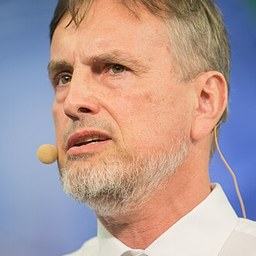
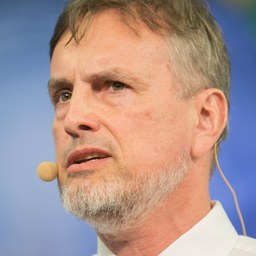
content: 本周更新——Schmidhuber(LSTM 之父)× Redpoint + Neel Nanda(DeepMind 可解释性)× DeepMind 官方
- 2 新人物(头像均确证:维基/GitHub 自证)+ 2 期双语全文 + brief
- 跳过 Adam Mosseri(非 AI 人物)与 20VC 新闻局

diff --git a/e/neelnanda-googlede-2026/index.html b/e/neelnanda-googlede-2026/index.html
@@ -1,0 +1,32 @@
+<!doctype html><html lang="zh"><head><meta charset="utf-8">
+<meta name="viewport" content="width=device-width,initial-scale=1">
+<title>窥探 AI 的黑箱内部 · 尼尔·南达 — AI Podcast</title>
+<meta name="description" content="Hannah Fry 与 Neil Nander 探讨可解释性领域，该领域旨在通过将意义映射到神经网络内部数字来理解其工作原理，并探讨其安全与科学动机。">
+<link rel="canonical" href="https://aipodcast.jasonlin.tech/e/neelnanda-googlede-2026/">
+<meta property="og:type" content="article">
+<meta property="og:site_name" content="AI Podcast · AI 播客">
+<meta property="og:title" content="窥探 AI 的黑箱内部 · 尼尔·南达 — AI Podcast">
+<meta property="og:description" content="Hannah Fry 与 Neil Nander 探讨可解释性领域，该领域旨在通过将意义映射到神经网络内部数字来理解其工作原理，并探讨其安全与科学动机。">
+<meta property="og:image" content="https://aipodcast.jasonlin.tech/assets/og.png">
+<meta property="og:url" content="https://aipodcast.jasonlin.tech/e/neelnanda-googlede-2026/">
+<meta name="twitter:card" content="summary_large_image">
+<meta name="twitter:title" content="窥探 AI 的黑箱内部 · 尼尔·南达 — AI Podcast">
+<meta name="twitter:description" content="Hannah Fry 与 Neil Nander 探讨可解释性领域，该领域旨在通过将意义映射到神经网络内部数字来理解其工作原理，并探讨其安全与科学动机。">
+<meta name="twitter:image" content="https://aipodcast.jasonlin.tech/assets/og.png">
+<script type="application/ld+json">{"@context":"https://schema.org","@type":"PodcastEpisode","name":"Peering Inside the Black Box of AI","alternateName":"窥探 AI 的黑箱内部","url":"https://aipodcast.jasonlin.tech/e/neelnanda-googlede-2026/","datePublished":"2026-07-10","timeRequired":"PT53M","inLanguage":["en","zh"],"description":"Hannah Fry and Neil Nander discuss interpretability, the field that aims to understand how neural networks work by mapping meaning onto their internal numbers, and explore its safety and scientific motivations.","abstract":"","partOfSeries":{"@type":"PodcastSeries","name":"Google DeepMind"},"isPartOf":{"@type":"WebSite","name":"AI Podcast","url":"https://aipodcast.jasonlin.tech"},"actor":{"@type":"Person","name":"Neel Nanda","jobTitle":"Mechanistic Interpretability Lead, Google DeepMind","url":"https://aipodcast.jasonlin.tech/pp/neelnanda/"},"associatedMedia":{"@type":"VideoObject","name":"Peering Inside the Black Box of AI","embedUrl":"https://www.youtube.com/embed/1DtMiRKg-cs","uploadDate":"2026-07-10"}}</script>
+<script type="application/ld+json">{"@context":"https://schema.org","@type":"BreadcrumbList","itemListElement":[{"@type":"ListItem","position":1,"name":"AI Podcast","item":"https://aipodcast.jasonlin.tech/"},{"@type":"ListItem","position":2,"name":"尼尔·南达","item":"https://aipodcast.jasonlin.tech/pp/neelnanda/"},{"@type":"ListItem","position":3,"name":"窥探 AI 的黑箱内部","item":"https://aipodcast.jasonlin.tech/e/neelnanda-googlede-2026/"}]}</script>
+<style>:root{--ink:#1d1d1f;--sub:#6e6e73;--line:#e6e6ea;--acc:#0071e3}*{box-sizing:border-box}body{font-family:-apple-system,"SF Pro Text",system-ui,"PingFang SC",sans-serif;color:var(--ink);background:#fff;margin:0;line-height:1.62}.wrap{max-width:760px;margin:0 auto;padding:34px 22px 80px}nav.bc{font-size:13px;color:var(--sub);margin-bottom:20px}nav.bc a{color:var(--sub);text-decoration:none}h1{font-size:27px;line-height:1.25;margin:.2em 0 .1em;letter-spacing:-.02em}.en-t{font-size:16px;color:var(--sub);margin:0 0 10px}.meta{font-size:14px;color:var(--sub);margin:8px 0 22px}.meta a{color:var(--acc);text-decoration:none}.cta{display:inline-block;margin:6px 0 26px;padding:10px 18px;background:var(--acc);color:#fff;border-radius:980px;font-size:14px;font-weight:600;text-decoration:none}h2{font-size:16px;margin:30px 0 10px;padding-top:8px;border-top:1px solid var(--line)}.zh{margin:.35em 0}.en{margin:.15em 0 1em;color:var(--sub);font-size:14.5px}ul{padding-left:1.1em}li{margin:.5em 0}.ep-list a{color:var(--ink)}footer{margin-top:44px;padding-top:16px;border-top:1px solid var(--line);font-size:12px;color:var(--sub)}footer a{color:var(--sub)}</style></head><body><div class="wrap"><nav class="bc"><a href="https://aipodcast.jasonlin.tech/">AI Podcast</a> › <a href="https://aipodcast.jasonlin.tech/pp/neelnanda/">尼尔·南达</a> › 本期</nav>
+<h1>窥探 AI 的黑箱内部</h1><p class="en-t">Peering Inside the Black Box of AI</p>
+<p class="meta"><a href="https://aipodcast.jasonlin.tech/pp/neelnanda/">尼尔·南达 Neel Nanda</a> · Google DeepMind · 2026-07-10 · 约 53 分钟 · <a href="https://youtu.be/1DtMiRKg-cs" rel="nofollow">原视频 ↗</a></p>
+<a class="cta" href="https://aipodcast.jasonlin.tech/#/episode/neelnanda-googlede-2026">打开互动全文版（中英对照 + 朗读 + 问答）→</a>
+<h2>本期速览 · Overview</h2><p class="zh">Hannah Fry 与 Neil Nander 探讨可解释性领域，该领域旨在通过将意义映射到神经网络内部数字来理解其工作原理，并探讨其安全与科学动机。</p><p class="en">Hannah Fry and Neil Nander discuss interpretability, the field that aims to understand how neural networks work by mapping meaning onto their internal numbers, and explore its safety and scientific motivations.</p>
+
+
+
+<h2>本期章节 · Chapters（共 19）</h2><ul><li><span class="zh"></span> <span class="en">Introduction to Interpretability</span></li><li><span class="zh"></span> <span class="en">Motivations: Safety and Science</span></li><li><span class="zh"></span> <span class="en">Original Goals of Interpretability</span></li><li><span class="zh"></span> <span class="en">Interpretability and Safety: Defense in Depth</span></li><li><span class="zh"></span> <span class="en">Chain of Thought as a Scratch Pad</span></li><li><span class="zh"></span> <span class="en">Faithfulness of Chain of Thought</span></li><li><span class="zh"></span> <span class="en">Future Risks of Deceptive Chain of Thought</span></li><li><span class="zh"></span> <span class="en">Practical Examples of Chain of Thought Use</span></li><li><span class="zh"></span> <span class="en">Origin of Chain of Thought</span></li><li><span class="zh"></span> <span class="en">Chain of Thought: Benefits and Fragility</span></li><li><span class="zh"></span> <span class="en">Happy-Sad Direction and Deception Probes</span></li><li><span class="zh"></span> <span class="en">Hallucination Probes and Sparse Autoencoders</span></li><li><span class="zh"></span> <span class="en">Interpretability as an enabler for detecting misalignment</span></li><li><span class="zh"></span> <span class="en">Models aware of being evaluated</span></li><li><span class="zh"></span> <span class="en">Challenges with eval awareness and gaming</span></li><li><span class="zh"></span> <span class="en">Potential mitigations and open questions</span></li><li><span class="zh"></span> <span class="en">Core problem with alignment evaluations</span></li><li><span class="zh"></span> <span class="en">Goals and Values in Models</span></li><li><span class="zh"></span> <span class="en">Interpretability and Trust</span></li></ul>
+<p style="margin-top:26px"><a class="cta" href="https://aipodcast.jasonlin.tech/#/episode/neelnanda-googlede-2026">阅读全文双语转录 →</a></p>
+<script>(function(){var q=location.search.replace(/^\?/,'');if(!q)return;var h="https://aipodcast.jasonlin.tech/#/episode/neelnanda-googlede-2026"+'?'+q;
+document.querySelectorAll('a.cta').forEach(function(a){a.href=h});
+if(/(^|&)(at|hl)=/.test(q))location.replace(h);})()</script>
+<footer>© AI Podcast · <a href="https://aipodcast.jasonlin.tech/">aipodcast.jasonlin.tech</a> — 双语播客全文阅读。转录/翻译仅供学习评论，版权归原播客与权利人，应要求即下架([email redacted])。</footer>
+</div></body></html>

diff --git a/e/schmidhuber-unsuperv-2026/index.html b/e/schmidhuber-unsuperv-2026/index.html
@@ -1,0 +1,32 @@
+<!doctype html><html lang="zh"><head><meta charset="utf-8">
+<meta name="viewport" content="width=device-width,initial-scale=1">
+<title>AGI 与物理 AI：与 AI 先驱尤尔根·施密德胡伯的对话 · 于尔根·施密德胡伯 — AI Podcast</title>
+<meta name="description" content="AI 先驱尤尔根·施密德胡伯探讨了通往 AGI 的道路、当前硬件的局限性，以及为何他对 AI 技术持乐观态度，但对模型公司持悲观态度。">
+<link rel="canonical" href="https://aipodcast.jasonlin.tech/e/schmidhuber-unsuperv-2026/">
+<meta property="og:type" content="article">
+<meta property="og:site_name" content="AI Podcast · AI 播客">
+<meta property="og:title" content="AGI 与物理 AI：与 AI 先驱尤尔根·施密德胡伯的对话 · 于尔根·施密德胡伯 — AI Podcast">
+<meta property="og:description" content="AI 先驱尤尔根·施密德胡伯探讨了通往 AGI 的道路、当前硬件的局限性，以及为何他对 AI 技术持乐观态度，但对模型公司持悲观态度。">
+<meta property="og:image" content="https://aipodcast.jasonlin.tech/assets/og.png">
+<meta property="og:url" content="https://aipodcast.jasonlin.tech/e/schmidhuber-unsuperv-2026/">
+<meta name="twitter:card" content="summary_large_image">
+<meta name="twitter:title" content="AGI 与物理 AI：与 AI 先驱尤尔根·施密德胡伯的对话 · 于尔根·施密德胡伯 — AI Podcast">
+<meta name="twitter:description" content="AI 先驱尤尔根·施密德胡伯探讨了通往 AGI 的道路、当前硬件的局限性，以及为何他对 AI 技术持乐观态度，但对模型公司持悲观态度。">
+<meta name="twitter:image" content="https://aipodcast.jasonlin.tech/assets/og.png">
+<script type="application/ld+json">{"@context":"https://schema.org","@type":"PodcastEpisode","name":"AGI and Physical AI: A Conversation with AI Pioneer Jurgen Schmidhuber","alternateName":"AGI 与物理 AI：与 AI 先驱尤尔根·施密德胡伯的对话","url":"https://aipodcast.jasonlin.tech/e/schmidhuber-unsuperv-2026/","datePublished":"2026-07-09","timeRequired":"PT51M","inLanguage":["en","zh"],"description":"AI pioneer Jurgen Schmidhuber discusses the path to AGI, the limitations of current hardware, and why he's optimistic about AI technology but pessimistic about model companies.","abstract":"","partOfSeries":{"@type":"PodcastSeries","name":"Unsupervised Learning"},"isPartOf":{"@type":"WebSite","name":"AI Podcast","url":"https://aipodcast.jasonlin.tech"},"actor":{"@type":"Person","name":"Jürgen Schmidhuber","jobTitle":"Director, KAUST AI","url":"https://aipodcast.jasonlin.tech/pp/schmidhuber/"},"associatedMedia":{"@type":"VideoObject","name":"AGI and Physical AI: A Conversation with AI Pioneer Jurgen Schmidhuber","embedUrl":"https://www.youtube.com/embed/RKjR8DQ40po","uploadDate":"2026-07-09"}}</script>
+<script type="application/ld+json">{"@context":"https://schema.org","@type":"BreadcrumbList","itemListElement":[{"@type":"ListItem","position":1,"name":"AI Podcast","item":"https://aipodcast.jasonlin.tech/"},{"@type":"ListItem","position":2,"name":"于尔根·施密德胡伯","item":"https://aipodcast.jasonlin.tech/pp/schmidhuber/"},{"@type":"ListItem","position":3,"name":"AGI 与物理 AI：与 AI 先驱尤尔根·施密德胡伯的对话","item":"https://aipodcast.jasonlin.tech/e/schmidhuber-unsuperv-2026/"}]}</script>
+<style>:root{--ink:#1d1d1f;--sub:#6e6e73;--line:#e6e6ea;--acc:#0071e3}*{box-sizing:border-box}body{font-family:-apple-system,"SF Pro Text",system-ui,"PingFang SC",sans-serif;color:var(--ink);background:#fff;margin:0;line-height:1.62}.wrap{max-width:760px;margin:0 auto;padding:34px 22px 80px}nav.bc{font-size:13px;color:var(--sub);margin-bottom:20px}nav.bc a{color:var(--sub);text-decoration:none}h1{font-size:27px;line-height:1.25;margin:.2em 0 .1em;letter-spacing:-.02em}.en-t{font-size:16px;color:var(--sub);margin:0 0 10px}.meta{font-size:14px;color:var(--sub);margin:8px 0 22px}.meta a{color:var(--acc);text-decoration:none}.cta{display:inline-block;margin:6px 0 26px;padding:10px 18px;background:var(--acc);color:#fff;border-radius:980px;font-size:14px;font-weight:600;text-decoration:none}h2{font-size:16px;margin:30px 0 10px;padding-top:8px;border-top:1px solid var(--line)}.zh{margin:.35em 0}.en{margin:.15em 0 1em;color:var(--sub);font-size:14.5px}ul{padding-left:1.1em}li{margin:.5em 0}.ep-list a{color:var(--ink)}footer{margin-top:44px;padding-top:16px;border-top:1px solid var(--line);font-size:12px;color:var(--sub)}footer a{color:var(--sub)}</style></head><body><div class="wrap"><nav class="bc"><a href="https://aipodcast.jasonlin.tech/">AI Podcast</a> › <a href="https://aipodcast.jasonlin.tech/pp/schmidhuber/">于尔根·施密德胡伯</a> › 本期</nav>
+<h1>AGI 与物理 AI：与 AI 先驱尤尔根·施密德胡伯的对话</h1><p class="en-t">AGI and Physical AI: A Conversation with AI Pioneer Jurgen Schmidhuber</p>
+<p class="meta"><a href="https://aipodcast.jasonlin.tech/pp/schmidhuber/">于尔根·施密德胡伯 Jürgen Schmidhuber</a> · Unsupervised Learning · 2026-07-09 · 约 51 分钟 · <a href="https://youtu.be/RKjR8DQ40po" rel="nofollow">原视频 ↗</a></p>
+<a class="cta" href="https://aipodcast.jasonlin.tech/#/episode/schmidhuber-unsuperv-2026">打开互动全文版（中英对照 + 朗读 + 问答）→</a>
+<h2>本期速览 · Overview</h2><p class="zh">AI 先驱尤尔根·施密德胡伯探讨了通往 AGI 的道路、当前硬件的局限性，以及为何他对 AI 技术持乐观态度，但对模型公司持悲观态度。</p><p class="en">AI pioneer Jurgen Schmidhuber discusses the path to AGI, the limitations of current hardware, and why he's optimistic about AI technology but pessimistic about model companies.</p>
+
+
+
+<h2>本期章节 · Chapters（共 20）</h2><ul><li><span class="zh"></span> <span class="en">Introduction and current state of AI</span></li><li><span class="zh"></span> <span class="en">Recursive self-improvement and metalearning</span></li><li><span class="zh"></span> <span class="en">Recursive Self-Improvement and Its Limitations</span></li><li><span class="zh"></span> <span class="en">Gradual vs. Discontinuous Improvement</span></li><li><span class="zh"></span> <span class="en">Efficiency as a Goal of Intelligence</span></li><li><span class="zh"></span> <span class="en">Advice for AI Labs on Self-Improvement</span></li><li><span class="zh"></span> <span class="en">Human Bias in Current AI Training</span></li><li><span class="zh"></span> <span class="en">Current Limitations and the Dream of AI-Driven Discovery</span></li><li><span class="zh"></span> <span class="en">The Blocker: Cost and Feedback Loop</span></li><li><span class="zh"></span> <span class="en">AI Scientist and Chemistry</span></li><li><span class="zh"></span> <span class="en">Robotics and Hardware Challenges</span></li><li><span class="zh"></span> <span class="en">Business Side and Compute Investment</span></li><li><span class="zh"></span> <span class="en">Compute demand and profitability concerns</span></li><li><span class="zh"></span> <span class="en">AI cost reduction and market crash</span></li><li><span class="zh"></span> <span class="en">AI safety and alignment skepticism</span></li><li><span class="zh"></span> <span class="en">Quickfire questions: current focus</span></li><li><span class="zh"></span> <span class="en">Conservative approach to AGI</span></li><li><span class="zh"></span> <span class="en">Qualities of a good researcher</span></li><li><span class="zh"></span> <span class="en">Future of transformer architecture</span></li><li><span class="zh"></span> <span class="en">Closing remarks and future vision</span></li></ul>
+<p style="margin-top:26px"><a class="cta" href="https://aipodcast.jasonlin.tech/#/episode/schmidhuber-unsuperv-2026">阅读全文双语转录 →</a></p>
+<script>(function(){var q=location.search.replace(/^\?/,'');if(!q)return;var h="https://aipodcast.jasonlin.tech/#/episode/schmidhuber-unsuperv-2026"+'?'+q;
+document.querySelectorAll('a.cta').forEach(function(a){a.href=h});
+if(/(^|&)(at|hl)=/.test(q))location.replace(h);})()</script>
+<footer>© AI Podcast · <a href="https://aipodcast.jasonlin.tech/">aipodcast.jasonlin.tech</a> — 双语播客全文阅读。转录/翻译仅供学习评论，版权归原播客与权利人，应要求即下架([email redacted])。</footer>
+</div></body></html>

diff --git a/pp/neelnanda/index.html b/pp/neelnanda/index.html
@@ -1,0 +1,26 @@
+<!doctype html><html lang="zh"><head><meta charset="utf-8">
+<meta name="viewport" content="width=device-width,initial-scale=1">
+<title>尼尔·南达 Neel Nanda 的 AI 播客访谈（1 期）— AI Podcast</title>
+<meta name="description" content="尼尔·南达 Neel Nanda：Google DeepMind 机制可解释性负责人。收录 1 期双语播客全文——领导 Google DeepMind 的机制可解释性研究——逆向工程大模型内部到底发生了什么。以开源可解释性工具与大量培养新人著称。">
+<link rel="canonical" href="https://aipodcast.jasonlin.tech/pp/neelnanda/">
+<meta property="og:type" content="profile">
+<meta property="og:site_name" content="AI Podcast · AI 播客">
+<meta property="og:title" content="尼尔·南达 Neel Nanda 的 AI 播客访谈（1 期）— AI Podcast">
+<meta property="og:description" content="尼尔·南达 Neel Nanda：Google DeepMind 机制可解释性负责人。收录 1 期双语播客全文——领导 Google DeepMind 的机制可解释性研究——逆向工程大模型内部到底发生了什么。以开源可解释性工具与大量培养新人著称。">
+<meta property="og:image" content="https://aipodcast.jasonlin.tech/assets/og.png">
+<meta property="og:url" content="https://aipodcast.jasonlin.tech/pp/neelnanda/">
+<meta name="twitter:card" content="summary_large_image">
+<meta name="twitter:title" content="尼尔·南达 Neel Nanda 的 AI 播客访谈（1 期）— AI Podcast">
+<meta name="twitter:description" content="尼尔·南达 Neel Nanda：Google DeepMind 机制可解释性负责人。收录 1 期双语播客全文——领导 Google DeepMind 的机制可解释性研究——逆向工程大模型内部到底发生了什么。以开源可解释性工具与大量培养新人著称。">
+<meta name="twitter:image" content="https://aipodcast.jasonlin.tech/assets/og.png">
+<script type="application/ld+json">{"@context":"https://schema.org","@type":"ProfilePage","mainEntity":{"@type":"Person","name":"Neel Nanda","alternateName":"尼尔·南达","jobTitle":"Mechanistic Interpretability Lead, Google DeepMind","description":"Leads mechanistic interpretability research at Google DeepMind — reverse-engineering what actually happens inside large models. Known for open-source interpretability tooling and prolific mentoring.","url":"https://aipodcast.jasonlin.tech/pp/neelnanda/"}}</script>
+<script type="application/ld+json">{"@context":"https://schema.org","@type":"ItemList","itemListElement":[{"@type":"ListItem","position":1,"url":"https://aipodcast.jasonlin.tech/e/neelnanda-googlede-2026/","name":"Peering Inside the Black Box of AI"}]}</script>
+<script type="application/ld+json">{"@context":"https://schema.org","@type":"BreadcrumbList","itemListElement":[{"@type":"ListItem","position":1,"name":"AI Podcast","item":"https://aipodcast.jasonlin.tech/"},{"@type":"ListItem","position":2,"name":"尼尔·南达","item":"https://aipodcast.jasonlin.tech/pp/neelnanda/"}]}</script>
+<style>:root{--ink:#1d1d1f;--sub:#6e6e73;--line:#e6e6ea;--acc:#0071e3}*{box-sizing:border-box}body{font-family:-apple-system,"SF Pro Text",system-ui,"PingFang SC",sans-serif;color:var(--ink);background:#fff;margin:0;line-height:1.62}.wrap{max-width:760px;margin:0 auto;padding:34px 22px 80px}nav.bc{font-size:13px;color:var(--sub);margin-bottom:20px}nav.bc a{color:var(--sub);text-decoration:none}h1{font-size:27px;line-height:1.25;margin:.2em 0 .1em;letter-spacing:-.02em}.en-t{font-size:16px;color:var(--sub);margin:0 0 10px}.meta{font-size:14px;color:var(--sub);margin:8px 0 22px}.meta a{color:var(--acc);text-decoration:none}.cta{display:inline-block;margin:6px 0 26px;padding:10px 18px;background:var(--acc);color:#fff;border-radius:980px;font-size:14px;font-weight:600;text-decoration:none}h2{font-size:16px;margin:30px 0 10px;padding-top:8px;border-top:1px solid var(--line)}.zh{margin:.35em 0}.en{margin:.15em 0 1em;color:var(--sub);font-size:14.5px}ul{padding-left:1.1em}li{margin:.5em 0}.ep-list a{color:var(--ink)}footer{margin-top:44px;padding-top:16px;border-top:1px solid var(--line);font-size:12px;color:var(--sub)}footer a{color:var(--sub)}</style></head><body><div class="wrap"><nav class="bc"><a href="https://aipodcast.jasonlin.tech/">AI Podcast</a> › 尼尔·南达</nav>
+<h1>尼尔·南达 Neel Nanda</h1><p class="en-t">Google DeepMind 机制可解释性负责人 · Mechanistic Interpretability Lead, Google DeepMind</p>
+<p class="zh">领导 Google DeepMind 的机制可解释性研究——逆向工程大模型内部到底发生了什么。以开源可解释性工具与大量培养新人著称。</p><p class="en">Leads mechanistic interpretability research at Google DeepMind — reverse-engineering what actually happens inside large models. Known for open-source interpretability tooling and prolific mentoring.</p>
+<a class="cta" href="https://aipodcast.jasonlin.tech/#/person/neelnanda">在 AI Podcast 查看 TA 的全部内容 →</a>
+<h2>收录的 1 期访谈</h2>
+<ul class="ep-list"><li><a href="https://aipodcast.jasonlin.tech/e/neelnanda-googlede-2026/">窥探 AI 的黑箱内部</a> — Google DeepMind · 2026-07-10</li></ul>
+<footer>© AI Podcast · <a href="https://aipodcast.jasonlin.tech/">aipodcast.jasonlin.tech</a> — 双语播客全文阅读。转录/翻译仅供学习评论，版权归原播客与权利人，应要求即下架([email redacted])。</footer>
+</div></body></html>

diff --git a/e/joonpark-googlede-2026/index.html b/e/joonpark-googlede-2026/index.html
@@ -1,25 +1,25 @@
 <!doctype html><html lang="zh"><head><meta charset="utf-8">
 <meta name="viewport" content="width=device-width,initial-scale=1">
-<title>AI智能体：超越大语言模型的下一个前沿 · 朴俊成 — AI Podcast</title>
-<meta name="description" content="Google DeepMind的Nana Tomashev解释了AI智能体如何通过自主执行多步骤任务区别于语言模型，并探讨了它们创造新经济和通往AGI路径的潜力。">
+<title>AI 智能体：超越大语言模型的下一个前沿 · 朴俊成 — AI Podcast</title>
+<meta name="description" content="Google DeepMind 的 Nana Tomashev 解释了 AI 智能体如何通过自主执行多步骤任务区别于语言模型，并探讨了它们创造新经济和通往 AGI 路径的潜力。">
 <link rel="canonical" href="https://aipodcast.jasonlin.tech/e/joonpark-googlede-2026/">
 <meta property="og:type" content="article">
 <meta property="og:site_name" content="AI Podcast · AI 播客">
-<meta property="og:title" content="AI智能体：超越大语言模型的下一个前沿 · 朴俊成 — AI Podcast">
-<meta property="og:description" content="Google DeepMind的Nana Tomashev解释了AI智能体如何通过自主执行多步骤任务区别于语言模型，并探讨了它们创造新经济和通往AGI路径的潜力。">
+<meta property="og:title" content="AI 智能体：超越大语言模型的下一个前沿 · 朴俊成 — AI Podcast">
+<meta property="og:description" content="Google DeepMind 的 Nana Tomashev 解释了 AI 智能体如何通过自主执行多步骤任务区别于语言模型，并探讨了它们创造新经济和通往 AGI 路径的潜力。">
 <meta property="og:image" content="https://aipodcast.jasonlin.tech/assets/og.png">
 <meta property="og:url" content="https://aipodcast.jasonlin.tech/e/joonpark-googlede-2026/">
 <meta name="twitter:card" content="summary_large_image">
-<meta name="twitter:title" content="AI智能体：超越大语言模型的下一个前沿 · 朴俊成 — AI Podcast">
-<meta name="twitter:description" content="Google DeepMind的Nana Tomashev解释了AI智能体如何通过自主执行多步骤任务区别于语言模型，并探讨了它们创造新经济和通往AGI路径的潜力。">
+<meta name="twitter:title" content="AI 智能体：超越大语言模型的下一个前沿 · 朴俊成 — AI Podcast">
+<meta name="twitter:description" content="Google DeepMind 的 Nana Tomashev 解释了 AI 智能体如何通过自主执行多步骤任务区别于语言模型，并探讨了它们创造新经济和通往 AGI 路径的潜力。">
 <meta name="twitter:image" content="https://aipodcast.jasonlin.tech/assets/og.png">
-<script type="application/ld+json">{"@context":"https://schema.org","@type":"PodcastEpisode","name":"AI Agents: The Next Frontier Beyond LLMs","alternateName":"AI智能体：超越大语言模型的下一个前沿","url":"https://aipodcast.jasonlin.tech/e/joonpark-googlede-2026/","datePublished":"2026-06-23","timeRequired":"PT43M","inLanguage":["en","zh"],"description":"Google DeepMind's Nana Tomashev explains how AI agents differ from language models by autonomously performing multi-step tasks, and discusses their potential to create a new economy and path to AGI.","abstract":"","partOfSeries":{"@type":"PodcastSeries","name":"Google DeepMind"},"isPartOf":{"@type":"WebSite","name":"AI Podcast","url":"https://aipodcast.jasonlin.tech"},"actor":{"@type":"Person","name":"Joon Sung Park","jobTitle":"Co-founder, Simile; creator of Generative Agents (Stanford)","url":"https://aipodcast.jasonlin.tech/pp/joonpark/"},"associatedMedia":{"@type":"VideoObject","name":"AI Agents: The Next Frontier Beyond LLMs","embedUrl":"https://www.youtube.com/embed/V04bm-3d6EQ","uploadDate":"2026-06-23"}}</script>
-<script type="application/ld+json">{"@context":"https://schema.org","@type":"BreadcrumbList","itemListElement":[{"@type":"ListItem","position":1,"name":"AI Podcast","item":"https://aipodcast.jasonlin.tech/"},{"@type":"ListItem","position":2,"name":"朴俊成","item":"https://aipodcast.jasonlin.tech/pp/joonpark/"},{"@type":"ListItem","position":3,"name":"AI智能体：超越大语言模型的下一个前沿","item":"https://aipodcast.jasonlin.tech/e/joonpark-googlede-2026/"}]}</script>
+<script type="application/ld+json">{"@context":"https://schema.org","@type":"PodcastEpisode","name":"AI Agents: The Next Frontier Beyond LLMs","alternateName":"AI 智能体：超越大语言模型的下一个前沿","url":"https://aipodcast.jasonlin.tech/e/joonpark-googlede-2026/","datePublished":"2026-06-23","timeRequired":"PT43M","inLanguage":["en","zh"],"description":"Google DeepMind's Nana Tomashev explains how AI agents differ from language models by autonomously performing multi-step tasks, and discusses their potential to create a new economy and path to AGI.","abstract":"","partOfSeries":{"@type":"PodcastSeries","name":"Google DeepMind"},"isPartOf":{"@type":"WebSite","name":"AI Podcast","url":"https://aipodcast.jasonlin.tech"},"actor":{"@type":"Person","name":"Joon Sung Park","jobTitle":"Co-founder, Simile; creator of Generative Agents (Stanford)","url":"https://aipodcast.jasonlin.tech/pp/joonpark/"},"associatedMedia":{"@type":"VideoObject","name":"AI Agents: The Next Frontier Beyond LLMs","embedUrl":"https://www.youtube.com/embed/V04bm-3d6EQ","uploadDate":"2026-06-23"}}</script>
+<script type="application/ld+json">{"@context":"https://schema.org","@type":"BreadcrumbList","itemListElement":[{"@type":"ListItem","position":1,"name":"AI Podcast","item":"https://aipodcast.jasonlin.tech/"},{"@type":"ListItem","position":2,"name":"朴俊成","item":"https://aipodcast.jasonlin.tech/pp/joonpark/"},{"@type":"ListItem","position":3,"name":"AI 智能体：超越大语言模型的下一个前沿","item":"https://aipodcast.jasonlin.tech/e/joonpark-googlede-2026/"}]}</script>
 <style>:root{--ink:#1d1d1f;--sub:#6e6e73;--line:#e6e6ea;--acc:#0071e3}*{box-sizing:border-box}body{font-family:-apple-system,"SF Pro Text",system-ui,"PingFang SC",sans-serif;color:var(--ink);background:#fff;margin:0;line-height:1.62}.wrap{max-width:760px;margin:0 auto;padding:34px 22px 80px}nav.bc{font-size:13px;color:var(--sub);margin-bottom:20px}nav.bc a{color:var(--sub);text-decoration:none}h1{font-size:27px;line-height:1.25;margin:.2em 0 .1em;letter-spacing:-.02em}.en-t{font-size:16px;color:var(--sub);margin:0 0 10px}.meta{font-size:14px;color:var(--sub);margin:8px 0 22px}.meta a{color:var(--acc);text-decoration:none}.cta{display:inline-block;margin:6px 0 26px;padding:10px 18px;background:var(--acc);color:#fff;border-radius:980px;font-size:14px;font-weight:600;text-decoration:none}h2{font-size:16px;margin:30px 0 10px;padding-top:8px;border-top:1px solid var(--line)}.zh{margin:.35em 0}.en{margin:.15em 0 1em;color:var(--sub);font-size:14.5px}ul{padding-left:1.1em}li{margin:.5em 0}.ep-list a{color:var(--ink)}footer{margin-top:44px;padding-top:16px;border-top:1px solid var(--line);font-size:12px;color:var(--sub)}footer a{color:var(--sub)}</style></head><body><div class="wrap"><nav class="bc"><a href="https://aipodcast.jasonlin.tech/">AI Podcast</a> › <a href="https://aipodcast.jasonlin.tech/pp/joonpark/">朴俊成</a> › 本期</nav>
-<h1>AI智能体：超越大语言模型的下一个前沿</h1><p class="en-t">AI Agents: The Next Frontier Beyond LLMs</p>
+<h1>AI 智能体：超越大语言模型的下一个前沿</h1><p class="en-t">AI Agents: The Next Frontier Beyond LLMs</p>
 <p class="meta"><a href="https://aipodcast.jasonlin.tech/pp/joonpark/">朴俊成 Joon Sung Park</a> · 谷歌 DeepMind · 2026-06-23 · 约 43 分钟 · <a href="https://youtu.be/V04bm-3d6EQ" rel="nofollow">原视频 ↗</a></p>
 <a class="cta" href="https://aipodcast.jasonlin.tech/#/episode/joonpark-googlede-2026">打开互动全文版（中英对照 + 朗读 + 问答）→</a>
-<h2>本期速览 · Overview</h2><p class="zh">Google DeepMind的Nana Tomashev解释了AI智能体如何通过自主执行多步骤任务区别于语言模型，并探讨了它们创造新经济和通往AGI路径的潜力。</p><p class="en">Google DeepMind's Nana Tomashev explains how AI agents differ from language models by autonomously performing multi-step tasks, and discusses their potential to create a new economy and path to AGI.</p>
+<h2>本期速览 · Overview</h2><p class="zh">Google DeepMind 的 Nana Tomashev 解释了 AI 智能体如何通过自主执行多步骤任务区别于语言模型，并探讨了它们创造新经济和通往 AGI 路径的潜力。</p><p class="en">Google DeepMind's Nana Tomashev explains how AI agents differ from language models by autonomously performing multi-step tasks, and discusses their potential to create a new economy and path to AGI.</p>
 
 
 

diff --git a/pp/schmidhuber/index.html b/pp/schmidhuber/index.html
@@ -1,26 +1,26 @@
 <!doctype html><html lang="zh"><head><meta charset="utf-8">
 <meta name="viewport" content="width=device-width,initial-scale=1">
-<title>于尔根·施密德胡伯 Jürgen Schmidhuber 的 AI 播客访谈（1 期）— AI Podcast</title>
-<meta name="description" content="于尔根·施密德胡伯 Jürgen Schmidhuber：KAUST AI 负责人。收录 1 期双语播客全文——深度学习先驱、LSTM 共同发明者——多年序列建模的基石。在 AGI 与思想溯源上观点犀利、长期发声。">
+<title>于尔根·施密德胡伯 Jürgen Schmidhuber 的 AI 播客访谈（2 期）— AI Podcast</title>
+<meta name="description" content="于尔根·施密德胡伯 Jürgen Schmidhuber：KAUST AI 负责人。收录 2 期双语播客全文——深度学习先驱、LSTM 共同发明者——多年序列建模的基石。在 AGI 与思想溯源上观点犀利、长期发声。">
 <link rel="canonical" href="https://aipodcast.jasonlin.tech/pp/schmidhuber/">
 <meta property="og:type" content="profile">
 <meta property="og:site_name" content="AI Podcast · AI 播客">
-<meta property="og:title" content="于尔根·施密德胡伯 Jürgen Schmidhuber 的 AI 播客访谈（1 期）— AI Podcast">
-<meta property="og:description" content="于尔根·施密德胡伯 Jürgen Schmidhuber：KAUST AI 负责人。收录 1 期双语播客全文——深度学习先驱、LSTM 共同发明者——多年序列建模的基石。在 AGI 与思想溯源上观点犀利、长期发声。">
+<meta property="og:title" content="于尔根·施密德胡伯 Jürgen Schmidhuber 的 AI 播客访谈（2 期）— AI Podcast">
+<meta property="og:description" content="于尔根·施密德胡伯 Jürgen Schmidhuber：KAUST AI 负责人。收录 2 期双语播客全文——深度学习先驱、LSTM 共同发明者——多年序列建模的基石。在 AGI 与思想溯源上观点犀利、长期发声。">
 <meta property="og:image" content="https://aipodcast.jasonlin.tech/assets/og.png">
 <meta property="og:url" content="https://aipodcast.jasonlin.tech/pp/schmidhuber/">
 <meta name="twitter:card" content="summary_large_image">
-<meta name="twitter:title" content="于尔根·施密德胡伯 Jürgen Schmidhuber 的 AI 播客访谈（1 期）— AI Podcast">
-<meta name="twitter:description" content="于尔根·施密德胡伯 Jürgen Schmidhuber：KAUST AI 负责人。收录 1 期双语播客全文——深度学习先驱、LSTM 共同发明者——多年序列建模的基石。在 AGI 与思想溯源上观点犀利、长期发声。">
+<meta name="twitter:title" content="于尔根·施密德胡伯 Jürgen Schmidhuber 的 AI 播客访谈（2 期）— AI Podcast">
+<meta name="twitter:description" content="于尔根·施密德胡伯 Jürgen Schmidhuber：KAUST AI 负责人。收录 2 期双语播客全文——深度学习先驱、LSTM 共同发明者——多年序列建模的基石。在 AGI 与思想溯源上观点犀利、长期发声。">
 <meta name="twitter:image" content="https://aipodcast.jasonlin.tech/assets/og.png">
 <script type="application/ld+json">{"@context":"https://schema.org","@type":"ProfilePage","mainEntity":{"@type":"Person","name":"Jürgen Schmidhuber","alternateName":"于尔根·施密德胡伯","jobTitle":"Director, KAUST AI","description":"Pioneer of deep learning and co-inventor of the LSTM, the recurrent network behind years of sequence modeling. A provocative voice on AGI and credit for ideas.","url":"https://aipodcast.jasonlin.tech/pp/schmidhuber/"}}</script>
-<script type="application/ld+json">{"@context":"https://schema.org","@type":"ItemList","itemListElement":[{"@type":"ListItem","position":1,"url":"https://aipodcast.jasonlin.tech/e/schmidhuber-machinel-2025/","name":"The Most Influential Invention of the 20th Century and the AI Explosion"}]}</script>
+<script type="application/ld+json">{"@context":"https://schema.org","@type":"ItemList","itemListElement":[{"@type":"ListItem","position":1,"url":"https://aipodcast.jasonlin.tech/e/schmidhuber-unsuperv-2026/","name":"AGI and Physical AI: A Conversation with AI Pioneer Jurgen Schmidhuber"},{"@type":"ListItem","position":2,"url":"https://aipodcast.jasonlin.tech/e/schmidhuber-machinel-2025/","name":"The Most Influential Invention of the 20th Century and the AI Explosion"}]}</script>
 <script type="application/ld+json">{"@context":"https://schema.org","@type":"BreadcrumbList","itemListElement":[{"@type":"ListItem","position":1,"name":"AI Podcast","item":"https://aipodcast.jasonlin.tech/"},{"@type":"ListItem","position":2,"name":"于尔根·施密德胡伯","item":"https://aipodcast.jasonlin.tech/pp/schmidhuber/"}]}</script>
 <style>:root{--ink:#1d1d1f;--sub:#6e6e73;--line:#e6e6ea;--acc:#0071e3}*{box-sizing:border-box}body{font-family:-apple-system,"SF Pro Text",system-ui,"PingFang SC",sans-serif;color:var(--ink);background:#fff;margin:0;line-height:1.62}.wrap{max-width:760px;margin:0 auto;padding:34px 22px 80px}nav.bc{font-size:13px;color:var(--sub);margin-bottom:20px}nav.bc a{color:var(--sub);text-decoration:none}h1{font-size:27px;line-height:1.25;margin:.2em 0 .1em;letter-spacing:-.02em}.en-t{font-size:16px;color:var(--sub);margin:0 0 10px}.meta{font-size:14px;color:var(--sub);margin:8px 0 22px}.meta a{color:var(--acc);text-decoration:none}.cta{display:inline-block;margin:6px 0 26px;padding:10px 18px;background:var(--acc);color:#fff;border-radius:980px;font-size:14px;font-weight:600;text-decoration:none}h2{font-size:16px;margin:30px 0 10px;padding-top:8px;border-top:1px solid var(--line)}.zh{margin:.35em 0}.en{margin:.15em 0 1em;color:var(--sub);font-size:14.5px}ul{padding-left:1.1em}li{margin:.5em 0}.ep-list a{color:var(--ink)}footer{margin-top:44px;padding-top:16px;border-top:1px solid var(--line);font-size:12px;color:var(--sub)}footer a{color:var(--sub)}</style></head><body><div class="wrap"><nav class="bc"><a href="https://aipodcast.jasonlin.tech/">AI Podcast</a> › 于尔根·施密德胡伯</nav>
 <h1>于尔根·施密德胡伯 Jürgen Schmidhuber</h1><p class="en-t">KAUST AI 负责人 · Director, KAUST AI</p>
 <p class="zh">深度学习先驱、LSTM 共同发明者——多年序列建模的基石。在 AGI 与思想溯源上观点犀利、长期发声。</p><p class="en">Pioneer of deep learning and co-inventor of the LSTM, the recurrent network behind years of sequence modeling. A provocative voice on AGI and credit for ideas.</p>
 <a class="cta" href="https://aipodcast.jasonlin.tech/#/person/schmidhuber">在 AI Podcast 查看 TA 的全部内容 →</a>
-<h2>收录的 1 期访谈</h2>
-<ul class="ep-list"><li><a href="https://aipodcast.jasonlin.tech/e/schmidhuber-machinel-2025/">20 世纪最具影响力的发明与 AI 爆炸</a> — ML Street Talk · 2025-01-16</li></ul>
+<h2>收录的 2 期访谈</h2>
+<ul class="ep-list"><li><a href="https://aipodcast.jasonlin.tech/e/schmidhuber-unsuperv-2026/">AGI 与物理 AI：与 AI 先驱尤尔根·施密德胡伯的对话</a> — Unsupervised Learning · 2026-07-09</li><li><a href="https://aipodcast.jasonlin.tech/e/schmidhuber-machinel-2025/">20 世纪最具影响力的发明与 AI 爆炸</a> — ML Street Talk · 2025-01-16</li></ul>
 <footer>© AI Podcast · <a href="https://aipodcast.jasonlin.tech/">aipodcast.jasonlin.tech</a> — 双语播客全文阅读。转录/翻译仅供学习评论，版权归原播客与权利人，应要求即下架([email redacted])。</footer>
 </div></body></html>

diff --git a/pp/joonpark/index.html b/pp/joonpark/index.html
@@ -21,6 +21,6 @@
 <p class="zh">Simile 联合创始人，构建大规模人类行为模拟。斯坦福博士期间创造了「生成式智能体」——那个会规划、记忆、社交的 Smallville AI 智能体模拟，影响深远。</p><p class="en">Co-founder of Simile, building large-scale simulations of human behavior. As a Stanford PhD he created 'Generative Agents' — the influential Smallville simulation of AI agents that plan, remember, and socialize.</p>
 <a class="cta" href="https://aipodcast.jasonlin.tech/#/person/joonpark">在 AI Podcast 查看 TA 的全部内容 →</a>
 <h2>收录的 2 期访谈</h2>
-<ul class="ep-list"><li><a href="https://aipodcast.jasonlin.tech/e/joonpark-googlede-2026/">AI智能体：超越大语言模型的下一个前沿</a> — 谷歌 DeepMind · 2026-06-23</li><li><a href="https://aipodcast.jasonlin.tech/e/joonpark-training-2026/">用 AI 模拟人类社会：从小镇实验到现实应用</a> — Training Data · 2026-06-16</li></ul>
+<ul class="ep-list"><li><a href="https://aipodcast.jasonlin.tech/e/joonpark-googlede-2026/">AI 智能体：超越大语言模型的下一个前沿</a> — 谷歌 DeepMind · 2026-06-23</li><li><a href="https://aipodcast.jasonlin.tech/e/joonpark-training-2026/">用 AI 模拟人类社会：从小镇实验到现实应用</a> — Training Data · 2026-06-16</li></ul>
 <footer>© AI Podcast · <a href="https://aipodcast.jasonlin.tech/">aipodcast.jasonlin.tech</a> — 双语播客全文阅读。转录/翻译仅供学习评论，版权归原播客与权利人，应要求即下架([email redacted])。</footer>
 </div></body></html>